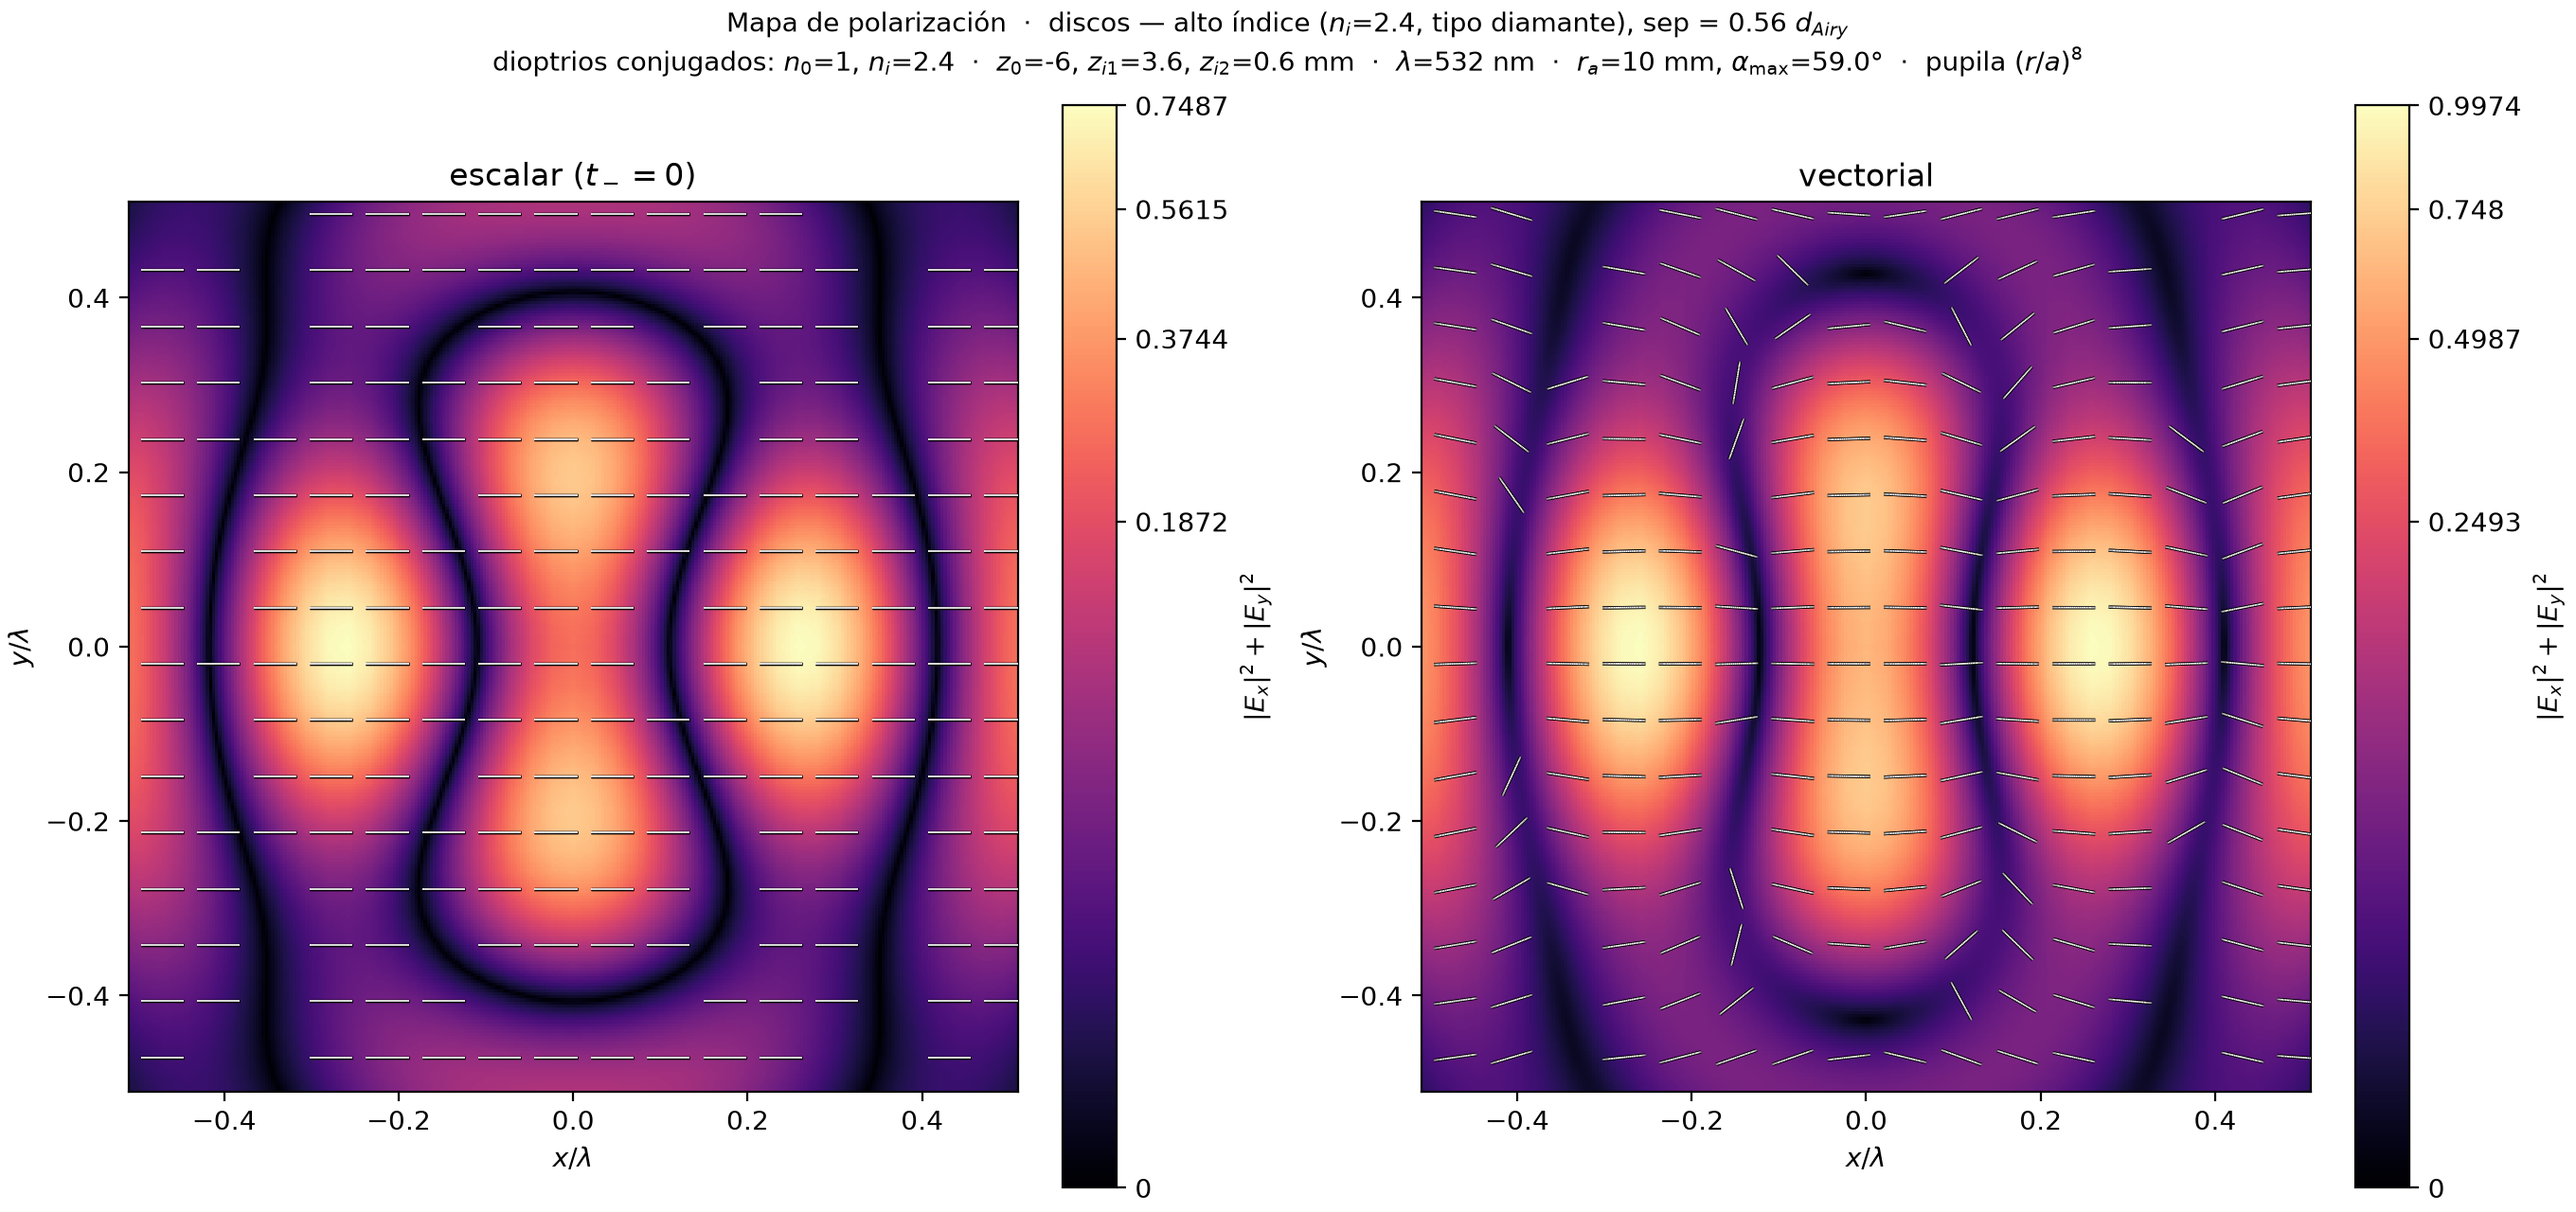
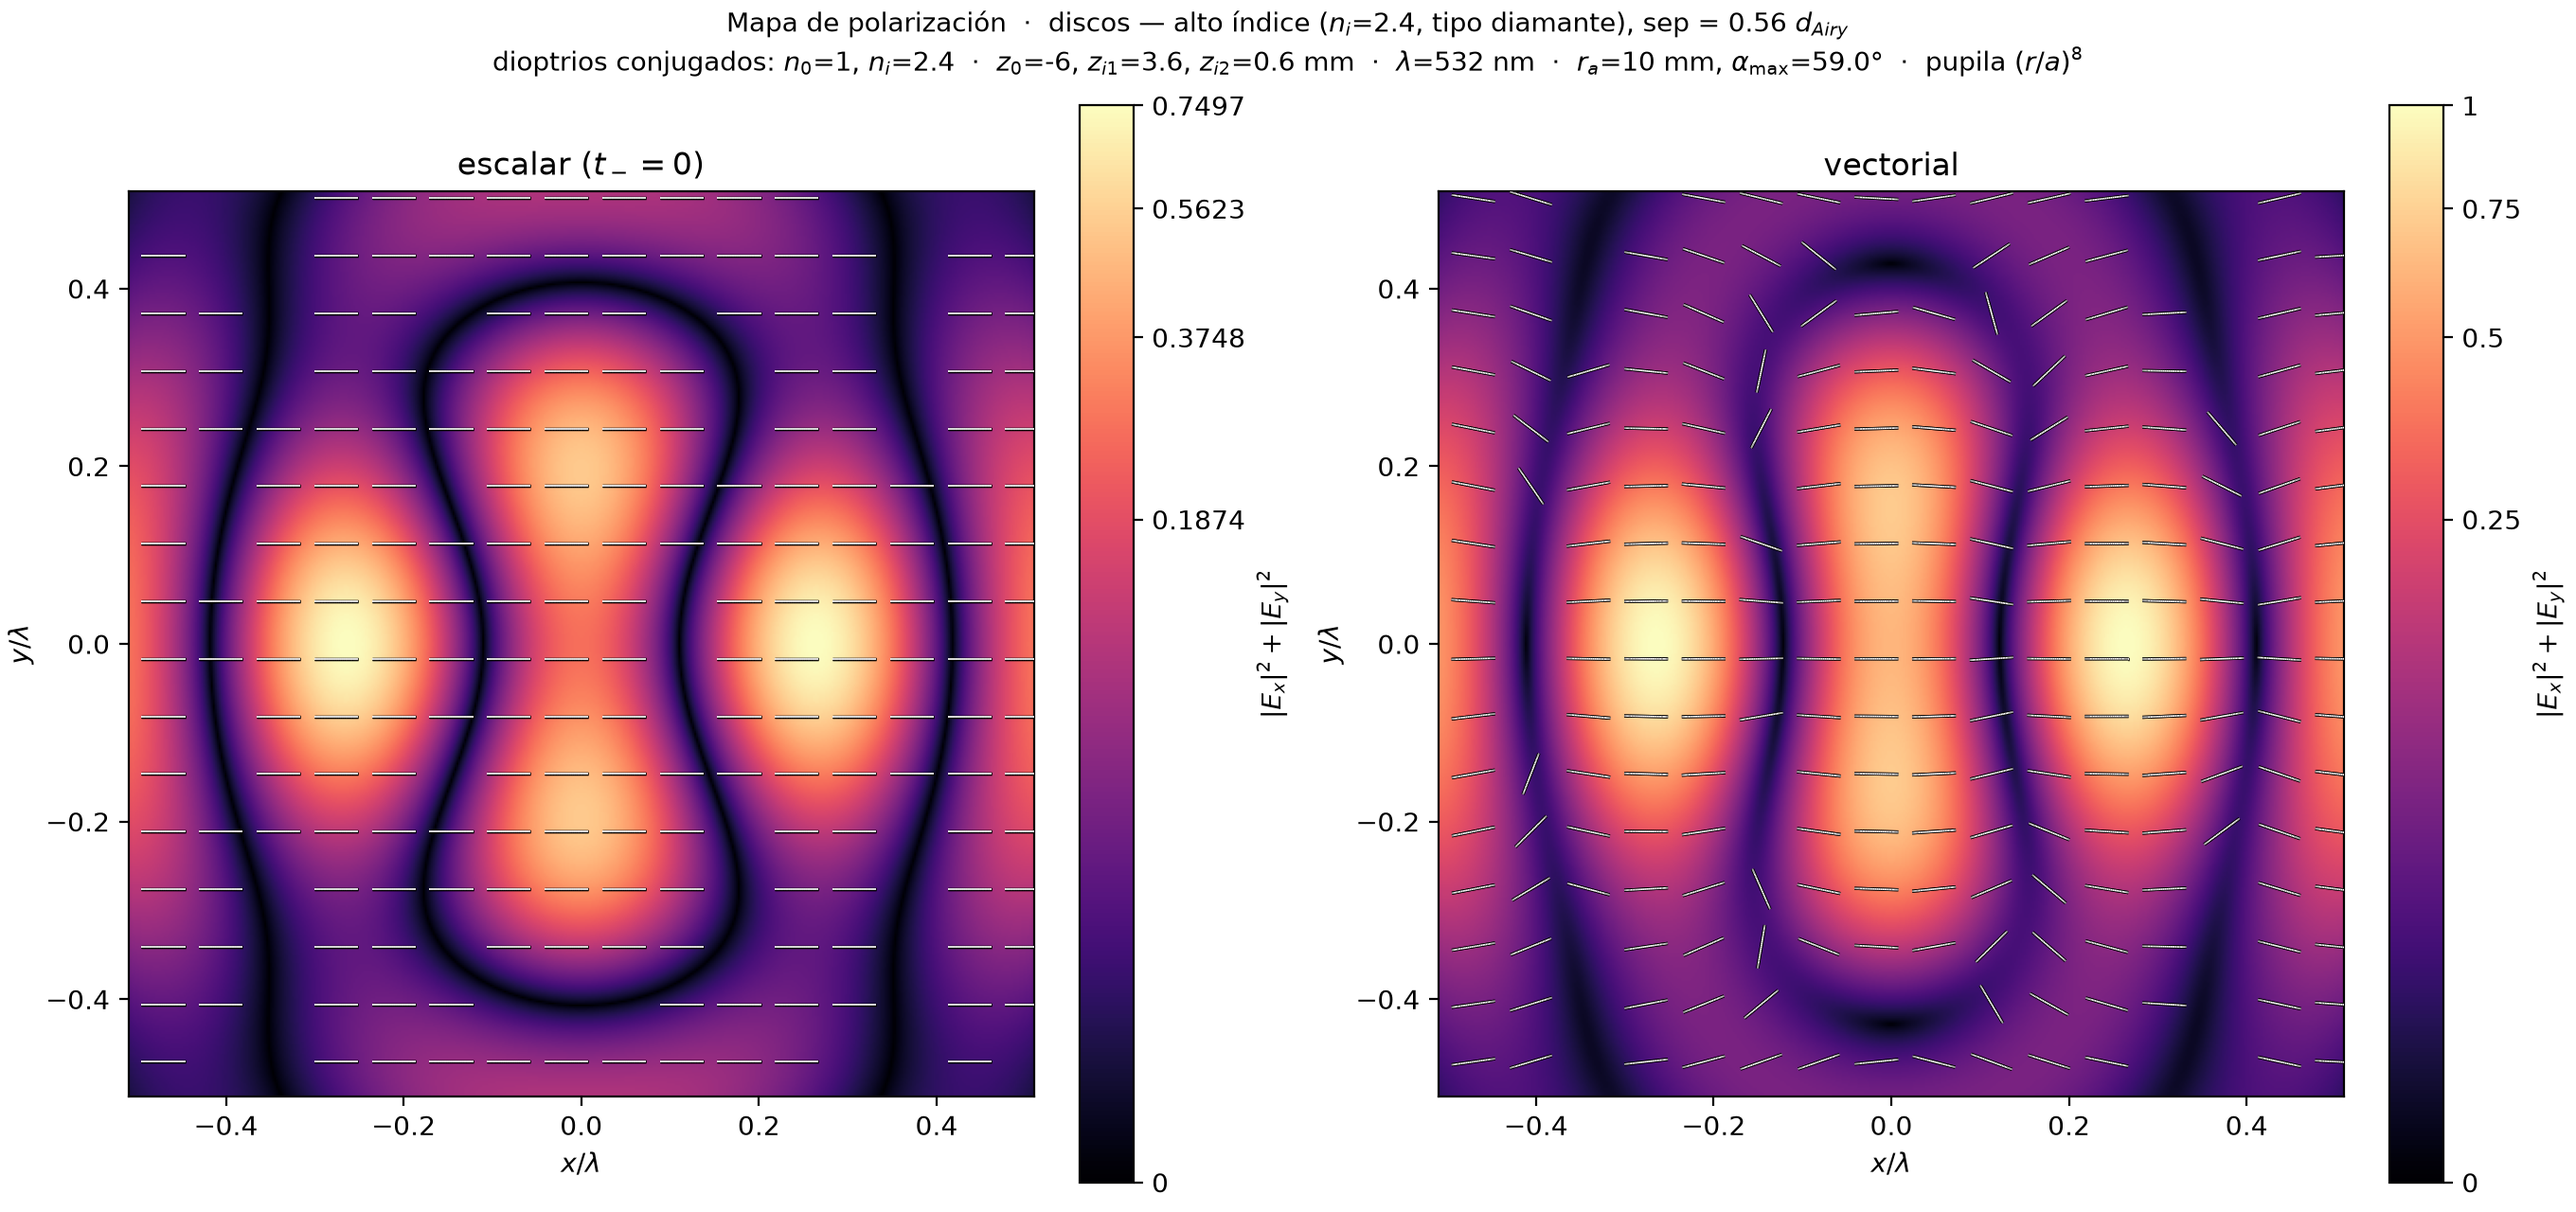
Fix low-quality (blocky) study 4 renders with a zoom-FFT crop
Zooming into a sub-wavelength window showed only ~50 blocky pixels: the
default output k-grid spans the whole Nyquist range at a fixed N_K, so a
pixel's physical size is (fixed field of view)/N_K regardless of how small a
window is displayed -- zooming in just enlarges the same handful of pixels.

FT2 already supports evaluating an arbitrary custom k-grid via scipy's
zoom_fft (chirp-z transform) instead of a plain FFT. imaging_common gains
zoomed_focal_kgrid(half_size_mm, n_img, d2), which builds a k-grid covering
only the displayed window with n_img points, and stage2()/image() accept a
kgrid override to use it -- cheaper than the full-field FFT (0.25s vs 1.27s
in a quick check) and numerically consistent (contrast metrics match to
~3e-3). two_disc_mask/two_line_mask also gain an xy override so the mask
panel can be rasterized on its own fine local grid, independent of the
coarse mask-plane propagation sampling.

study_4's showcase and polarization renders now use a 480x480 zoom crop.
Contrast values shift by <0.005 (same physics, finer sampling);
CONCLUSIONS.md numbers updated to match. Full suite green (52).

diff --git a/investigation/focal_plane_aperture_study/imaging_common.py b/investigation/focal_plane_aperture_study/imaging_common.py
@@ -70,27 +70,43 @@ def system_caption(r_a=None, *, d1=None, d2=None, lam=LAM):
 #  Masks                                                               #
 # ------------------------------------------------------------------ #
 
-def two_line_mask(theta, sep, line_w, line_len):
-    """Two lines whose separation axis makes ``theta`` with x."""
+def two_line_mask(theta, sep, line_w, line_len, xy=None):
+    """Two lines whose separation axis makes ``theta`` with x.
+
+    ``xy`` optionally overrides the sampling grid with a local ``(Xg, Yg)``
+    pair (e.g. a fine grid cropped to a display window) instead of the module
+    grid used for propagation.
+    """
+    Xg, Yg = (X, Y) if xy is None else xy
     ux, uy = np.cos(theta), np.sin(theta)
     vx, vy = -uy, ux
-    T = np.zeros_like(X)
+    T = np.zeros_like(Xg)
     for sign in (-1.0, 1.0):
         cx, cy = sign * 0.5 * sep * ux, sign * 0.5 * sep * uy
-        u = (X - cx) * ux + (Y - cy) * uy
-        v = (X - cx) * vx + (Y - cy) * vy
+        u = (Xg - cx) * ux + (Yg - cy) * uy
+        v = (Xg - cx) * vx + (Yg - cy) * vy
         T[(np.abs(u) <= 0.5 * line_w) & (np.abs(v) <= 0.5 * line_len)] = 1.0
     return T
 
 
-def two_disc_mask(theta, sep, diameter):
-    """Two discs (canonical two-point objects) separated along ``theta``."""
+def two_disc_mask(theta, sep, diameter, xy=None):
+    """Two discs (canonical two-point objects) separated along ``theta``.
+
+    ``xy`` optionally overrides the sampling grid, see ``two_line_mask``.
+    """
+    Xg, Yg = (X, Y) if xy is None else xy
     ux, uy = np.cos(theta), np.sin(theta)
-    T = np.zeros_like(X)
+    T = np.zeros_like(Xg)
     for sign in (-1.0, 1.0):
         cx, cy = sign * 0.5 * sep * ux, sign * 0.5 * sep * uy
-        T[(X - cx) ** 2 + (Y - cy) ** 2 <= (0.5 * diameter) ** 2] = 1.0
+        T[(Xg - cx) ** 2 + (Yg - cy) ** 2 <= (0.5 * diameter) ** 2] = 1.0
     return T
+
+
+def fine_mask_grid(half_size_mm, n_img):
+    """Local ``(Xg, Yg)`` Cartesian grid for a high-resolution display-only mask."""
+    x = np.linspace(-half_size_mm, half_size_mm, n_img)
+    return np.meshgrid(x, x)
 
 
 # ------------------------------------------------------------------ #
@@ -99,6 +115,27 @@ def two_disc_mask(theta, sep, diameter):
 
 def _kgrid(n, dx):
     k = 2.0 * np.pi * np.fft.fftshift(np.fft.fftfreq(n, d=dx))
+    KX, KY = np.meshgrid(k, k)
+    return Grid.from_cartesian(KX, KY, domain="k")
+
+
+def zoomed_focal_kgrid(half_size_mm, n_img, d2=None):
+    """Dense k-grid covering only ``[-half_size_mm, half_size_mm]`` in D2's focal plane.
+
+    The default k-grid built by ``_kgrid`` spans the *whole* Nyquist range at
+    ``N_K`` points, so a pixel's physical size is the total field of view
+    divided by ``N_K`` -- zooming into a sub-wavelength window then only shows
+    a handful of those pixels (blocky renders).  ``FT2`` evaluates a custom,
+    non-FFT-grid ``kgrid`` with a zoom FFT (``scipy.signal.zoom_fft``), so
+    passing a k-grid restricted to the small window of interest gives ``n_img``
+    points *inside that window specifically*, at the cost of one chirp-z
+    transform instead of a full-field FFT -- i.e. a free "digital zoom" for
+    figures, decoupled from the coarse default field of view.
+    """
+    d2 = D2 if d2 is None else d2
+    scale2 = LAM * d2["zi"] / (2.0 * np.pi * d2["ni"])
+    k_lim = half_size_mm / scale2
+    k = np.linspace(-k_lim, k_lim, n_img)
     KX, KY = np.meshgrid(k, k)
     return Grid.from_cartesian(KX, KY, domain="k")
 
@@ -128,7 +165,7 @@ def stage1(mask, vectorial, d1=None):
         kgrid=_kgrid(N_K, DX), transmission="identity")
 
 
-def stage2(E1, r_a, vectorial, eps=0.0, edge_p=0.0, d2=None, d1=None):
+def stage2(E1, r_a, vectorial, eps=0.0, edge_p=0.0, d2=None, d1=None, kgrid=None):
     """Pupil in the Fourier plane, then D2 to the image plane.
 
     ``eps`` is the central-obstruction fraction of the pupil cutoff (annulus).
@@ -137,6 +174,8 @@ def stage2(E1, r_a, vectorial, eps=0.0, edge_p=0.0, d2=None, d1=None):
     ``t_minus/t_plus`` peaks -- to amplify the polarization mixing without the
     hard side-lobes of a closed annulus.
     ``d1``/``d2`` override the first/second-diopter geometry.
+    ``kgrid`` overrides the default full-field output k-grid, e.g. with
+    ``zoomed_focal_kgrid`` for a densely sampled crop around a small region.
     """
     d1 = D1 if d1 is None else d1
     d2 = D2 if d2 is None else d2
@@ -154,21 +193,23 @@ def stage2(E1, r_a, vectorial, eps=0.0, edge_p=0.0, d2=None, d1=None):
     Ef = FieldCartesian(x=E1.x * pupil, y=E1.y * pupil,
                         grid=Grid.from_cartesian(XF, YF), symmetric=False)
 
-    dxf = scale * float(kx[1] - kx[0])
+    if kgrid is None:
+        dxf = scale * float(kx[1] - kx[0])
+        kgrid = _kgrid(N_K, dxf)
     diopter = CartesianSurface(**d2)
     if vectorial:
         return Ef.propagate_through_diopter(
             z=diopter.zi, ovoid=diopter, method="fft",
-            kgrid=_kgrid(N_K, dxf), output="focal",
+            kgrid=kgrid, output="focal",
             wavelength=LAM, transmission="vectorial")
     Efs = apply_t_plus(Ef, diopter)
     return Efs.propagate_through_diopter(
         z=diopter.zi, ovoid=diopter, method="fft",
-        kgrid=_kgrid(N_K, dxf), output="focal",
+        kgrid=kgrid, output="focal",
         wavelength=LAM, transmission="identity")
 
 
-def image(mask, r_a, vectorial, eps=0.0, edge_p=0.0, d2=None, d1=None, _cache={}):
+def image(mask, r_a, vectorial, eps=0.0, edge_p=0.0, d2=None, d1=None, kgrid=None, _cache={}):
     """Full pipeline mask -> image field (stage1 cached per mask/model/d1)."""
     d1_key = tuple(sorted((D1 if d1 is None else d1).items()))
     key = (mask.tobytes(), vectorial, d1_key)
@@ -177,7 +218,7 @@ def image(mask, r_a, vectorial, eps=0.0, edge_p=0.0, d2=None, d1=None, _cache={}
         _cache[key] = stage1(mask, vectorial, d1=d1)
         other = (mask.tobytes(), not vectorial, d1_key)
         _cache[other] = stage1(mask, not vectorial, d1=d1)
-    return stage2(_cache[key], r_a, vectorial, eps=eps, edge_p=edge_p, d2=d2, d1=d1)
+    return stage2(_cache[key], r_a, vectorial, eps=eps, edge_p=edge_p, d2=d2, d1=d1, kgrid=kgrid)
 
 
 # ------------------------------------------------------------------ #

diff --git a/investigation/focal_plane_aperture_study/study_4_resolution_inversion.py b/investigation/focal_plane_aperture_study/study_4_resolution_inversion.py
@@ -61,6 +61,10 @@ EDGE_P = 8.0
 # well below the Rayleigh threshold (clearly fused, not marginally resolved).
 SHOWCASE_VEC_MAX = 0.10
 S_FRACS = np.linspace(0.48, 0.84, 19)  # separations in units of d_Airy
+# Points across the displayed window for showcase/polarization renders, via a
+# zoom-FFT crop (see imaging_common.zoomed_focal_kgrid) -- decoupled from the
+# coarse default field-of-view pixel size used during the separation scan.
+RENDER_N_IMG = 480
 
 out = common.output_dir(__file__)
 
@@ -96,10 +100,10 @@ def make_systems():
     ]
 
 
-def make_mask(feature, theta, sep):
+def make_mask(feature, theta, sep, xy=None):
     if feature == "discs":
-        return ic.two_disc_mask(theta, sep, DISC_DIAM)
-    return ic.two_line_mask(theta, sep, 0.35 * sep, LINE_LEN_F * sep)
+        return ic.two_disc_mask(theta, sep, DISC_DIAM, xy=xy)
+    return ic.two_line_mask(theta, sep, 0.35 * sep, LINE_LEN_F * sep, xy=xy)
 
 
 def crossing(s, c, level):
@@ -202,9 +206,16 @@ def _render_showcase(system, feature, s_frac, mag, d_airy, caption):
     d1, d2, r_a, tag, edge_p = (system["d1"], system["d2"], system["r_a"],
                                 system["tag"], system["edge_p"])
     sep = s_frac * d_airy
-    mask = make_mask(feature, 0.5 * np.pi, sep)
-    E_s = ic.image(mask, r_a, False, edge_p=edge_p, d1=d1, d2=d2)
-    E_v = ic.image(mask, r_a, True, edge_p=edge_p, d1=d1, d2=d2)
+    lim = 1.6 * mag * sep / LAM  # half-window in wavelengths, image plane
+
+    # Render on a dense zoom-FFT crop of the actual window shown (RENDER_N_IMG
+    # points inside it) instead of inheriting the coarse pixel size of the
+    # default full-field output grid (whose FOV is fixed, so zooming into a
+    # sub-wavelength window would only show a handful of its pixels).
+    render_kgrid = ic.zoomed_focal_kgrid(1.05 * lim * LAM, RENDER_N_IMG, d2=d2)
+    mask_scan = make_mask(feature, 0.5 * np.pi, sep)  # for the propagation (coarse) grid
+    E_s = ic.image(mask_scan, r_a, False, edge_p=edge_p, d1=d1, d2=d2, kgrid=render_kgrid)
+    E_v = ic.image(mask_scan, r_a, True, edge_p=edge_p, d1=d1, d2=d2, kgrid=render_kgrid)
     Cs, u_s, p_s = ic.valley_contrast(E_s, 0.5 * np.pi, sep, mag=mag)
     Cv, u_v, p_v = ic.valley_contrast(E_v, 0.5 * np.pi, sep, mag=mag)
     label = "discos" if feature == "discs" else "líneas"
@@ -214,12 +225,16 @@ def _render_showcase(system, feature, s_frac, mag, d_airy, caption):
     vmax = max(I_s.max(), I_v.max())
     xr, yr = E_s.grid.X[0, :] / LAM, E_s.grid.Y[:, 0] / LAM
     extent = [xr[0], xr[-1], yr[0], yr[-1]]
-    lim = 1.6 * mag * sep / LAM
+
+    # Mask panel rendered on its own fine grid (display-only, decoupled from
+    # the coarse mask-plane propagation sampling) so it is equally sharp.
+    mask_half_mm = (lim / mag) * LAM
+    mask_xy = ic.fine_mask_grid(mask_half_mm, RENDER_N_IMG)
+    mask_fine = make_mask(feature, 0.5 * np.pi, sep, xy=mask_xy)
 
     fig, axes = plt.subplots(1, 4, figsize=(17.5, 4.3), constrained_layout=True)
-    half_L = 0.5 * ic.L
-    axes[0].imshow(mask, extent=[v / LAM for v in (-half_L, half_L, -half_L, half_L)],
-                   origin="lower", cmap="gray")
+    mask_extent = [v / LAM for v in (-mask_half_mm, mask_half_mm, -mask_half_mm, mask_half_mm)]
+    axes[0].imshow(mask_fine, extent=mask_extent, origin="lower", cmap="gray")
     axes[0].set_title("Máscara (objeto)")
     axes[0].set_xlim(-lim / mag, lim / mag)
     axes[0].set_ylim(-lim / mag, lim / mag)
@@ -265,7 +280,7 @@ def _render_polarization(system, feature, s_frac, sep, lim, vmax, E_s, E_v, capt
 
     pol_maps = {}
     for name, E_lam in (("escalar", E_s_lam), ("vectorial", E_v_lam)):
-        xx, yy, pol = polarization_map_from_field(E_lam, half_size=1.05 * lim, n_img=340)
+        xx, yy, pol = polarization_map_from_field(E_lam, half_size=1.05 * lim, n_img=RENDER_N_IMG)
         pol_maps[name] = (xx, yy, pol)
 
     _, _, pol_v = pol_maps["vectorial"]
@@ -312,7 +327,7 @@ def _render_polarization(system, feature, s_frac, sep, lim, vmax, E_s, E_v, capt
 
     fig, axes = plt.subplots(1, 2, figsize=(13.6, 6.4), constrained_layout=True)
     for axi, (name, E_lam) in zip(axes, (("escalar ($t_-=0$)", E_s_lam), ("vectorial", E_v_lam))):
-        plot_field_polarization(E_lam, half_size=1.05 * lim, n_img=300, sampling="cartesian",
+        plot_field_polarization(E_lam, half_size=1.05 * lim, n_img=RENDER_N_IMG, sampling="cartesian",
                                 target_ellipses=17, min_intensity_fraction=0.01, ax=axi)
         axi.set_title(name)
         axi.set_xlim(-lim, lim)

diff --git a/investigation/focal_plane_aperture_study/CONCLUSIONS.md b/investigation/focal_plane_aperture_study/CONCLUSIONS.md
@@ -167,11 +167,11 @@ Se estudian **dos sistemas**, ambos cascadas conjugadas aire→vidrio→aire:
 
 - **Discos (canónico), separación ⊥ polarización:** ventana de inversión
   [0.547, 0.592]·d_Airy (**~4.5%**). Escaparate en sep = 0.56·d_Airy = 0.42 µm:
-  **C_esc = 0.331 (dos discos claramente resueltos, valle al 50% del pico) vs
-  C_vec = 0.073 (fundidos, valle relleno al ~86%)** — el perfil escalar tiene dos
+  **C_esc = 0.332 (dos discos claramente resueltos, valle al 50% del pico) vs
+  C_vec = 0.075 (fundidos, valle relleno al ~86%)** — el perfil escalar tiene dos
   máximos bien separados y el vectorial uno solo alargado.
 - **Líneas** (cortas, longitud 1.5·sep): ventana [0.503, 0.508]·d_Airy;
-  escaparate sep = 0.82·d_Airy: **C_esc = 0.254 vs C_vec = −0.103** (el vectorial
+  escaparate sep = 0.82·d_Airy: **C_esc = 0.260 vs C_vec = −0.092** (el vectorial
   ni siquiera tiene mínimo local).
 - **La inversión es direccional**: con separación **paralela** a la polarización
   la ventana tiene signo opuesto (el vectorial resuelve *mejor*, −0.016·d_Airy en
@@ -187,9 +187,9 @@ Se estudian **dos sistemas**, ambos cascadas conjugadas aire→vidrio→aire:
 
 - **Discos, ⊥ polarización:** ventana [0.555, 0.569]·d_Airy (**~1.4%**, más
   estrecha que con alto índice). Escaparate sep = 0.56·d_Airy = 0.73 µm:
-  **C_esc = 0.188 (resuelto) vs C_vec = 0.076 (fundido)**.
+  **C_esc = 0.189 (resuelto) vs C_vec = 0.076 (fundido)**.
 - **Líneas:** ventana [0.505, 0.507]·d_Airy; escaparate sep = 0.84·d_Airy:
-  **C_esc = 0.256 vs C_vec = 0.072**. Con el peso de borde la inversión de líneas
+  **C_esc = 0.258 vs C_vec = 0.075**. Con el peso de borde la inversión de líneas
   sobrevive también a índices realistas (sin él desaparecía).
 
 ![showcase discos, vidrio](results/s4_showcase_discs_vidrio.png)
